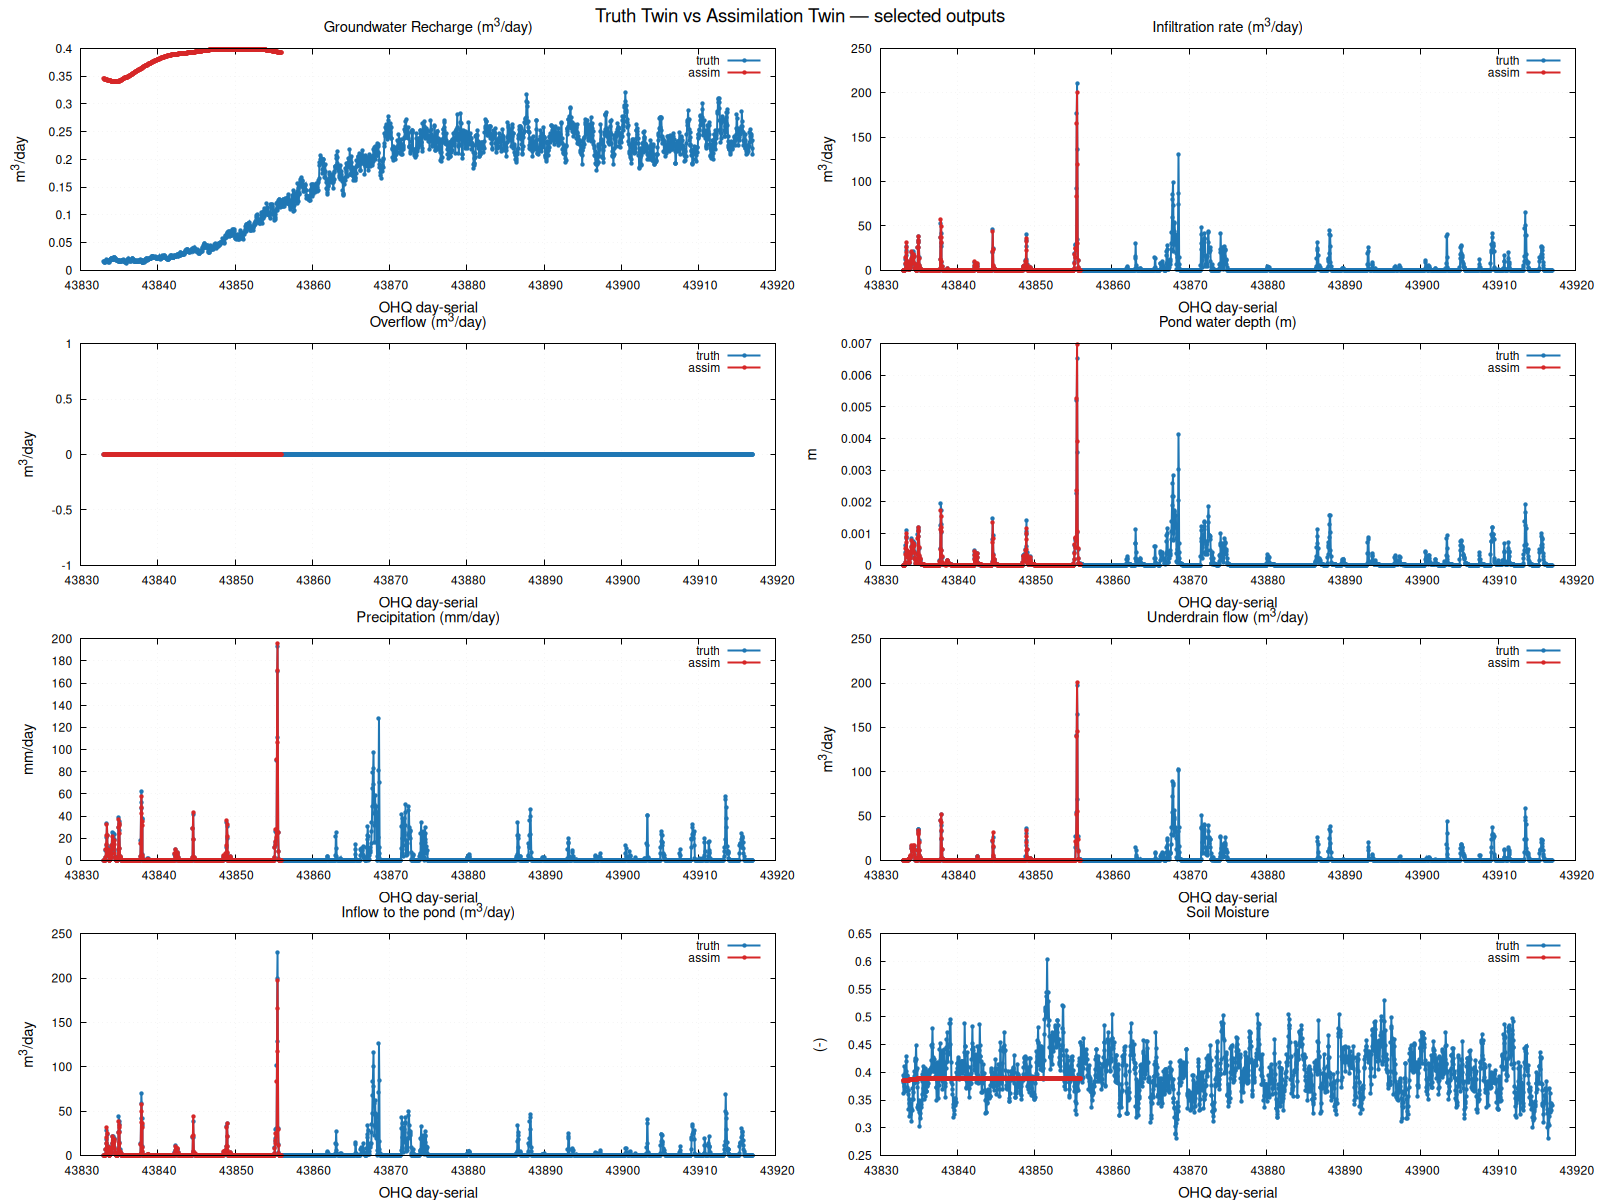
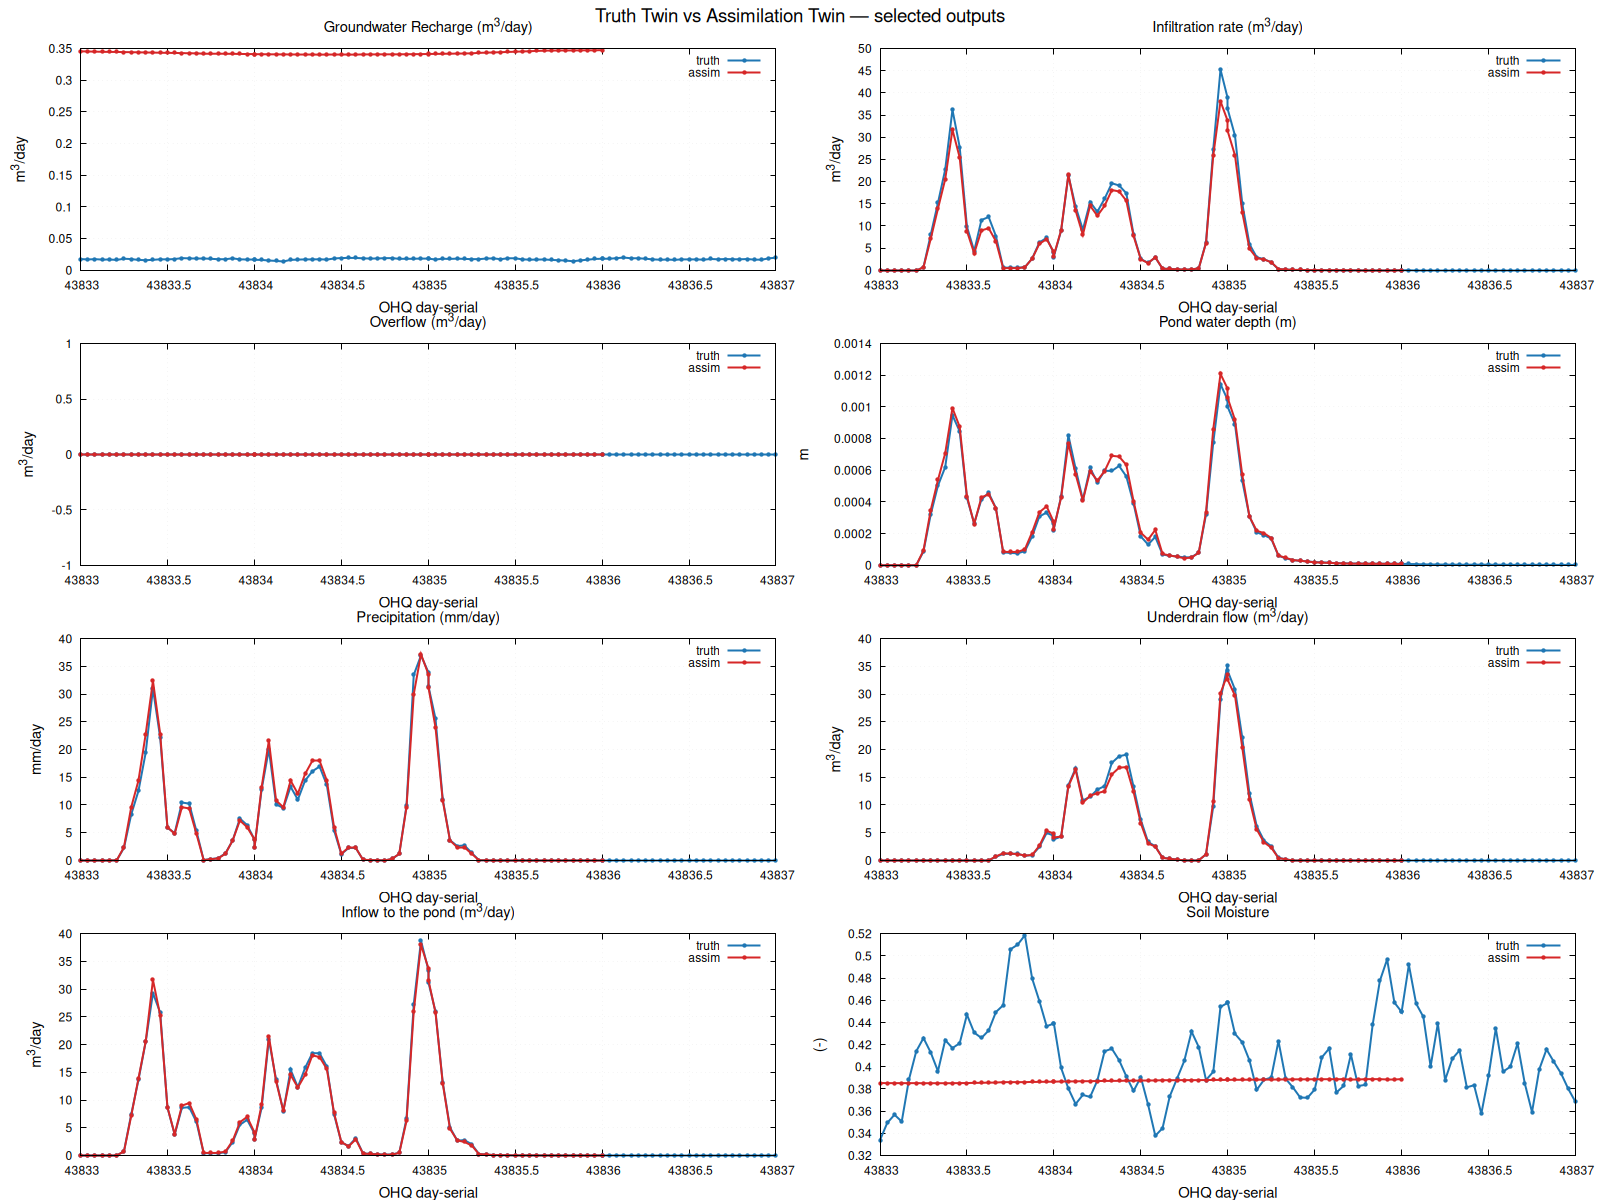
advance to observations

diff --git a/DTRunner.cpp b/DTRunner.cpp
@@ -285,7 +285,34 @@ bool DTRunner::renderOnly()
 bool DTRunner::runOnce()
 {
     const QDateTime advanceStart = m_nextIntervalStart;
-    const QDateTime advanceEnd   = advanceStart.addMSecs(m_config.intervalMs);
+    QDateTime       advanceEnd;
+
+    if (m_config.advanceToObservations &&
+        m_assimilation &&
+        m_assimilation->buffer().pointCount() > 0)
+    {
+        const double tMaxSerial = m_assimilation->buffer().tMax();
+        const QDateTime tMaxDt  = fromOHQDaySerial(tMaxSerial);
+
+        if (tMaxDt > advanceStart)
+        {
+            // Catch up to the data frontier in one variable-width step.
+            advanceEnd = tMaxDt;
+            const double daysCovered =
+                advanceStart.msecsTo(tMaxDt) / 86400000.0;
+            std::cout << "[Runner] catch-up mode: advancing to data frontier "
+                      << "(" << daysCovered << " simulated days this cycle)\n";
+        }
+        else
+        {
+            // Already at or past the frontier — fall back to fixed interval
+            advanceEnd = advanceStart.addMSecs(m_config.intervalMs);
+        }
+    }
+    else
+    {
+        advanceEnd = advanceStart.addMSecs(m_config.intervalMs);
+    }
 
     std::cout << "\n[Runner] ======== Cycle " << (m_runsCompleted + 1) << " ========\n";
 
@@ -294,17 +321,43 @@ bool DTRunner::runOnce()
     // completed since the previous cycle takes precedence over the
     // latest forward snapshot, since its parameters are more current.
     QString latestSnapshot;
+    const QString cycleStamp =
+        QDateTime::currentDateTimeUtc().toString(Qt::ISODate);
+
     if (!m_pendingCalibratedSnapshot.isEmpty() &&
         QFileInfo::exists(m_pendingCalibratedSnapshot))
     {
         latestSnapshot = m_pendingCalibratedSnapshot;
-        std::cout << "[Runner] consuming calibrated snapshot: "
+        std::cout << "[Runner] [" << cycleStamp.toStdString() << "] "
+                  << "CONSUMING calibrated snapshot: "
                   << m_pendingCalibratedSnapshot.toStdString() << "\n";
+
+        // DIAG: read parameter values from the calibrated snapshot so we can
+        // confirm the calibrated values are flowing into the forward cycle.
+        QJsonObject snap = readJson(m_pendingCalibratedSnapshot);
+        if (!snap.isEmpty() && snap.contains("Parameters"))
+        {
+            std::cout << "[Runner]   parameters in calibrated snapshot:\n";
+            const QJsonObject params = snap["Parameters"].toObject();
+            for (auto it = params.constBegin(); it != params.constEnd(); ++it)
+            {
+                const QJsonObject p = it.value().toObject();
+                std::cout << "[Runner]     " << it.key().toStdString()
+                          << " = " << p["value"].toString().toStdString()
+                          << " [" << p["low"].toString().toStdString()
+                          << ", " << p["high"].toString().toStdString() << "]\n";
+            }
+        }
         m_pendingCalibratedSnapshot.clear();
     }
     else
     {
         latestSnapshot = findLatestStateSnapshot();
+        std::cout << "[Runner] [" << cycleStamp.toStdString() << "] "
+                  << "loading forward snapshot: "
+                  << (latestSnapshot.isEmpty()
+                          ? std::string("(cold start)")
+                          : latestSnapshot.toStdString()) << "\n";
     }
 
     QString initialModelJsonPath;
@@ -461,7 +514,9 @@ bool DTRunner::runOnce()
     ++m_runsCompleted;
     m_nextIntervalStart = advanceEnd;
 
-    std::cout << "[Runner] Cycle complete. Next cycle start: "
+    const QString endStamp = QDateTime::currentDateTimeUtc().toString(Qt::ISODate);
+    std::cout << "[Runner] [" << endStamp.toStdString() << "] "
+              << "Cycle complete. Next cycle start: "
               << m_nextIntervalStart.toString(Qt::ISODate).toStdString() << "\n";
 
     // ------------------------------------------------------------------
@@ -1100,7 +1155,16 @@ bool DTRunner::writeMetadataSidecar() const
 
 void DTRunner::onCalibrationCompleted(QString newSnapshotPath)
 {
+    const QString stamp = QDateTime::currentDateTimeUtc().toString(Qt::ISODate);
     m_pendingCalibratedSnapshot = newSnapshotPath;
-    std::cout << "[Runner] calibrated snapshot received, will use on next cycle: "
-              << newSnapshotPath.toStdString() << "\n";
+    std::cout << "[Runner] [" << stamp.toStdString() << "] "
+              << "calibrated snapshot received: "
+              << newSnapshotPath.toStdString() << "\n"
+              << "[Runner] (will consume on next forward cycle)\n";
+}
+
+static QDateTime fromOHQDaySerial(double serial)
+{
+    const qint64 ms = static_cast<qint64>((serial - 25569.0) * 86400000.0);
+    return QDateTime::fromMSecsSinceEpoch(ms, Qt::UTC);
 }

diff --git a/DTAssimilation.cpp b/DTAssimilation.cpp
@@ -153,6 +153,10 @@ void DTAssimilation::onPollTick()
 // ---------------------------------------------------------------------------
 bool DTAssimilation::runCalibration(QString &errorMessage)
 {
+    const QDateTime calStart = QDateTime::currentDateTimeUtc();
+    std::cout << "[Assim] [" << calStart.toString(Qt::ISODate).toStdString() << "] "
+              << "calibration cycle " << (m_cyclesCompleted + 1) << " starting\n";
+
     // Guard: need a snapshot to calibrate against.
     if (m_latestSnapshotPath.isEmpty())
     {
@@ -396,7 +400,17 @@ bool DTAssimilation::runCalibration(QString &errorMessage)
     ++m_cyclesCompleted;
     std::cout << "[Assim] calibration cycle " << m_cyclesCompleted
               << " completed: " << newSnapshotPath.toStdString() << "\n";
+
+    const QDateTime calEnd = QDateTime::currentDateTimeUtc();
+    const qint64 elapsedMs = calStart.msecsTo(calEnd);
+    std::cout << "[Assim] [" << calEnd.toString(Qt::ISODate).toStdString() << "] "
+              << "calibration cycle " << m_cyclesCompleted
+              << " finished in " << (elapsedMs / 1000.0) << " sec\n";
+
+    writeParameterLog(sys, m_cyclesCompleted);
+
     emit calibrationCompleted(newSnapshotPath);
+
     return true;
 }
 
@@ -432,5 +446,56 @@ bool DTAssimilation::archiveGAOutput(int cycleIndex)
         << " ===\n";
     out << src.readAll();
     out << "\n";
+    return true;
+}
+
+// ---------------------------------------------------------------------------
+// writeParameterLog
+// Append a row to outputs/calibration/parameter_history.csv recording the
+// best parameter values found in this calibration cycle. Header is written
+// on the first cycle (when the file doesn't exist yet).
+// ---------------------------------------------------------------------------
+bool DTAssimilation::writeParameterLog(const System &sys, int cycleIndex)
+{
+    const QString calibDir =
+        QString::fromStdString(m_config.assimilation.calibrationOutputDir);
+    const QString filePath = calibDir + "/parameter_history.csv";
+
+    const bool fileExists = QFileInfo::exists(filePath);
+
+    QFile file(filePath);
+    if (!file.open(QIODevice::WriteOnly | QIODevice::Append | QIODevice::Text))
+    {
+        std::cerr << "[Assim] failed to open " << filePath.toStdString()
+        << " for parameter log\n";
+        return false;
+    }
+
+    QTextStream out(&file);
+    const QString stamp = QDateTime::currentDateTimeUtc().toString(Qt::ISODate);
+    const double tMax = (m_buffer.pointCount() > 0) ? m_buffer.tMax() : 0.0;
+
+    auto &params = const_cast<System &>(sys).Parameters();
+    const int nParams = static_cast<int>(params.size());
+
+    if (!fileExists)
+    {
+        out << "cycle,timestamp,t_now";
+        for (int i = 0; i < nParams; ++i)
+            out << "," << QString::fromStdString(params[i]->GetName());
+        out << "\n";
+    }
+
+    out << cycleIndex << "," << stamp << "," << QString::number(tMax, 'f', 6);
+    for (int i = 0; i < nParams; ++i)
+    {
+        const std::string val = params[i]->Variable("value")->GetProperty();
+        out << "," << QString::fromStdString(val);
+    }
+    out << "\n";
+    file.close();
+
+    std::cout << "[Assim] parameter log updated: cycle " << cycleIndex
+              << " → " << filePath.toStdString() << "\n";
     return true;
 }

diff --git a/DTConfig.h b/DTConfig.h
@@ -154,6 +154,14 @@ public:
     // Useful for historical / Truth-Twin runs.
     double      timeAcceleration = 1.0;
 
+    // When true (and assimilation is enabled), runOnce advances simulated
+    // time from m_nextIntervalStart all the way to the most recent
+    // observation timestamp in the buffer (m_assimilation->buffer().tMax())
+    // in a single forward step. This lets the assim twin catch up after
+    // calibration cycles that would otherwise have left it behind.
+    // Default false preserves the existing fixed-interval behavior.
+    bool        advanceToObservations = false;
+
     // --- forecast horizon ---
     // Optional duration of Stage B forecast window beyond the advance interval.
     // Same syntax as intervalStr. Empty / 0 = forecast disabled.

diff --git a/DTConfig.cpp b/DTConfig.cpp
@@ -477,6 +477,9 @@ bool DTConfig::load(const QString &deploymentRootIn, QString &errorMessage)
         std::cout << "[Config] assimilation      : disabled\n";
     }
 
+    std::cout << "[Config] advance_to_obs   : "
+              << (advanceToObservations ? "true" : "false") << "\n";
+
     return true;
 }
 

diff --git a/DTAssimilation.h b/DTAssimilation.h
@@ -25,6 +25,7 @@
 #include <QObject>
 #include <QString>
 #include <QTimer>
+#include "System.h"
 
 class DTConfig;
 
@@ -97,4 +98,5 @@ private:
     bool runCalibration(QString &errorMessage);
     bool archiveGAOutput(int cycleIndex);
     QString m_latestSnapshotPath;
+    bool writeParameterLog(const System &sys, int cycleIndex);
 };

diff --git a/DTRunner.h b/DTRunner.h
@@ -250,5 +250,6 @@ private:
     QString m_pendingCalibratedSnapshot;
 };
 
+static QDateTime fromOHQDaySerial(double serial);
 
 